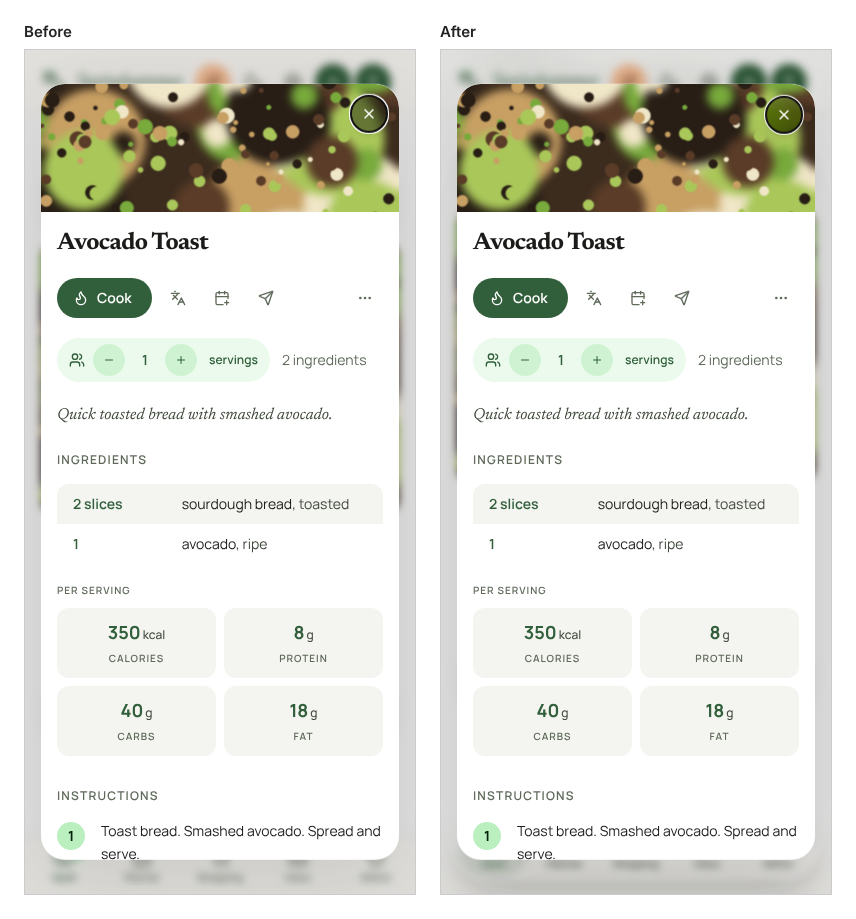
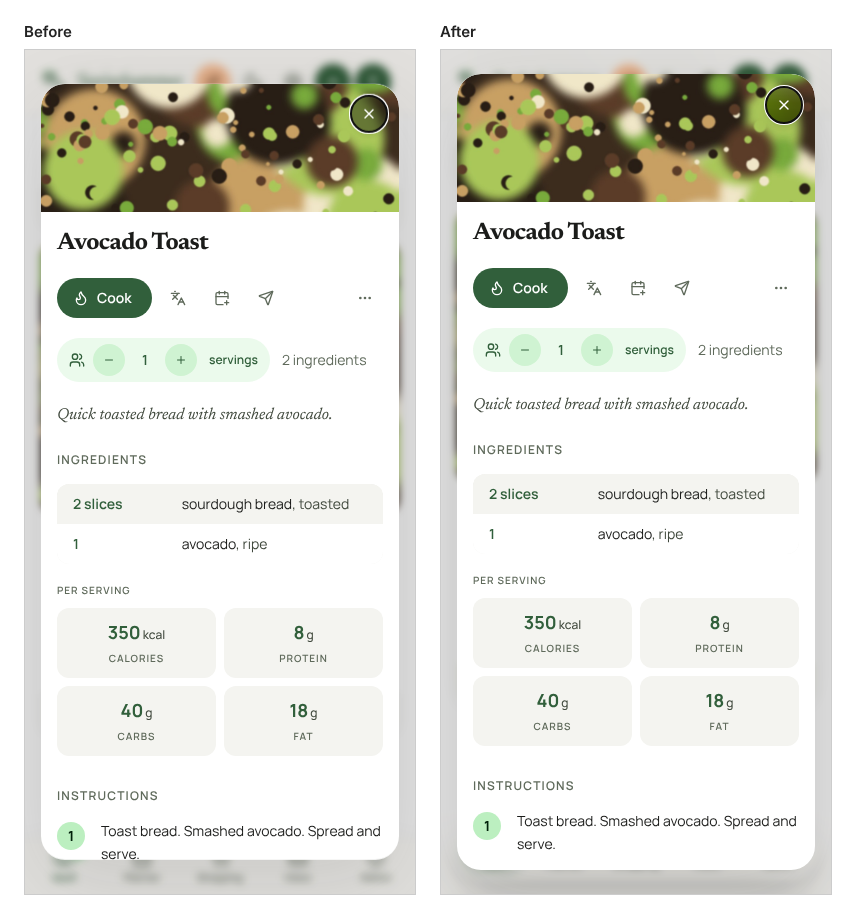
docs: after pictures of the glass design as it is now
The after half of each pair is retaken from 797903c, which merged the iPhone
fixes (PR #66) on top of the glass design: a denser header, and recipe cards
with an edge, a resting shadow and more room between them. The before half is
unchanged (551a6e7). The README says which commits the halves come from and
that the status-bar fix does not show without a phone's insets.

Claude-Session: https://claude.ai/code/session_01VZVEARBSaEA6KJ6DExog5i

diff --git a/docs/design/liquid-glass/README.md b/docs/design/liquid-glass/README.md
@@ -1,8 +1,9 @@
 # Liquid glass: before and after
 
 The same six screens taken from the commit before the glass design (`551a6e7`)
-and from the commit that merged it (`8195f34`, PR #65). Each file holds the
-pair: "Before" first, "After" second.
+and from the commit that merged the iPhone fixes on top of it (`797903c`,
+PR #66; the glass itself came in PR #65). Each file holds the pair: "Before"
+first, "After" second.
 
 | File | Screen |
 | --- | --- |
@@ -10,9 +11,18 @@ pair: "Before" first, "After" second.
 | `phone-recipe-light.png`, `phone-recipe-dark.png` | A recipe open at 390 x 844 (the close button on the photo) |
 | `desktop-menu-light.png`, `desktop-menu-dark.png` | Vault at 1280 x 800 with the account menu open |
 
-What to look for: the header and the tab bar let the content show through,
-blurred; the phone tab bar floats as a capsule with a pill under the current
-tab; the star and close buttons on photos are glass; the account menu is glass.
+What to look for:
+
+- The phone tab bar floats as a glass capsule, with a pill under the current
+  tab, and lets the content show through, blurred.
+- The header is glass too, but denser, so a photo scrolling underneath stays a
+  tint rather than a smear behind its buttons.
+- Each recipe card has a fine edge and a resting shadow, with more room between
+  cards, so it is clear where one recipe ends and the next begins.
+- The star and close buttons on photos are glass; so is the account menu.
+
+The iPhone fix in PR #66 (nothing tappable under the status bar or the home
+indicator) does not show here: these are taken without a phone's insets.
 
 ## How they were taken
 
